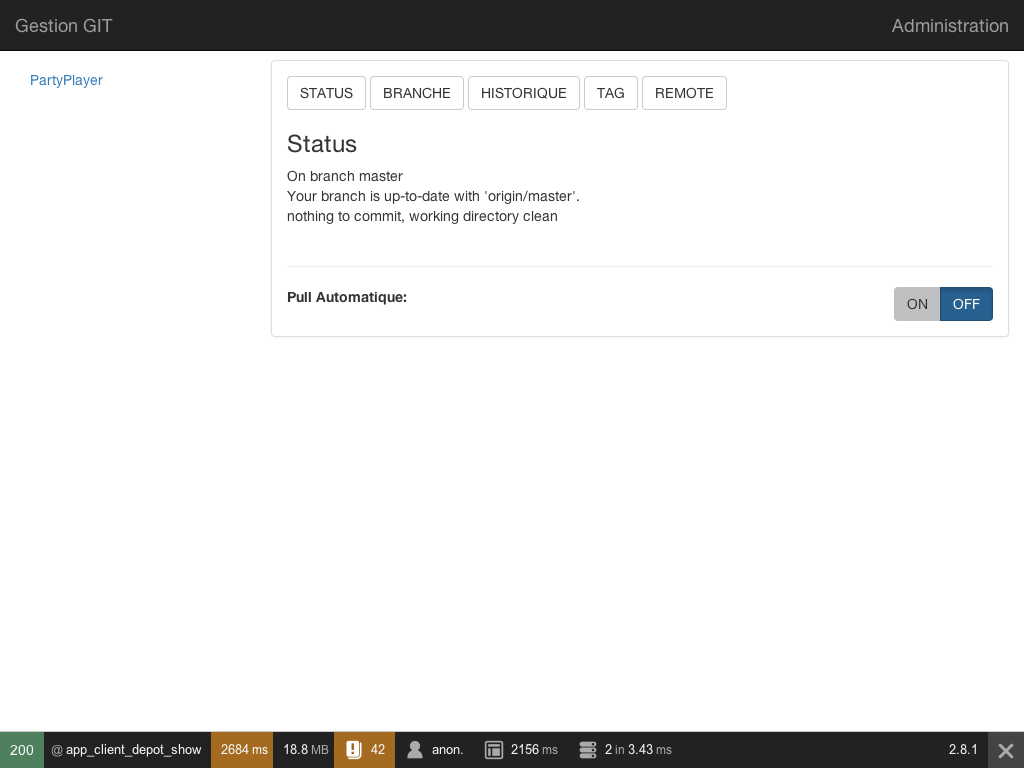
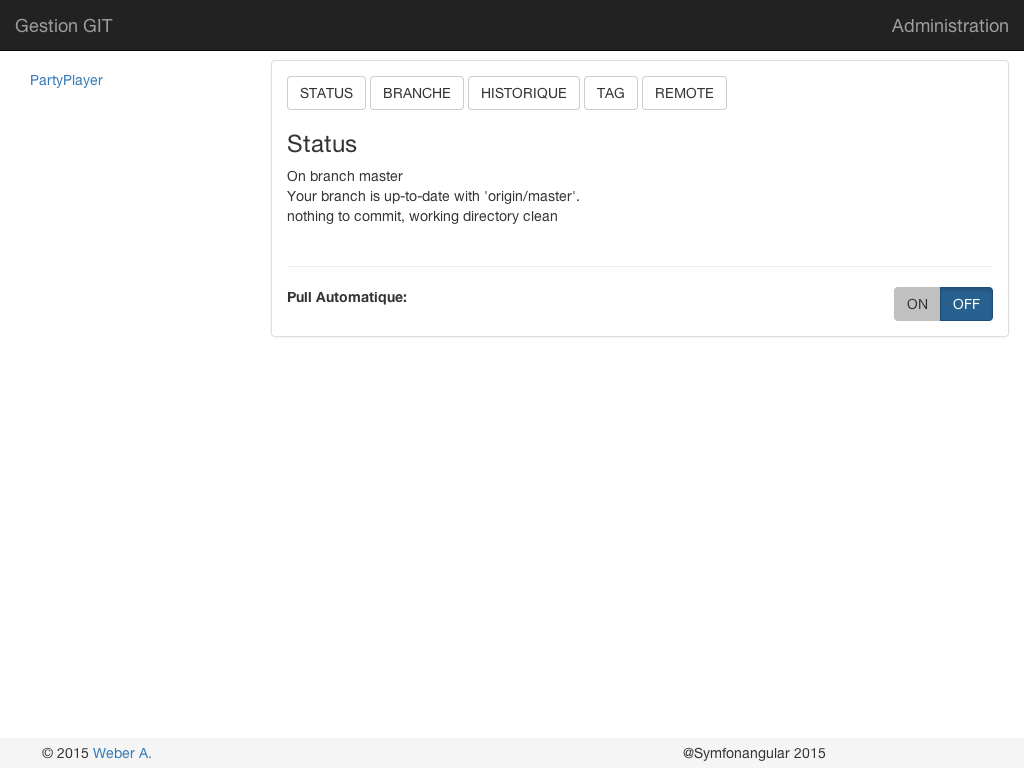
retrait de la barre de dev, dans les screenshots

Changed region(s): [[0.0, 0.9375, 1.0, 1.0]]

diff --git a/Gruntfile.js b/Gruntfile.js
@@ -20,7 +20,7 @@ module.exports = function (grunt) {
               path: "web",
               port: 8000,
               files: [
-                { src: "app_dev.php/depot/1#!/status", dest: "index.png", delay: 200 }
+                { src: "app.php/depot/1#!/status", dest: "index.png", delay: 200 }
               ]
             },
             viewport: ['1024x768', '500x500']
